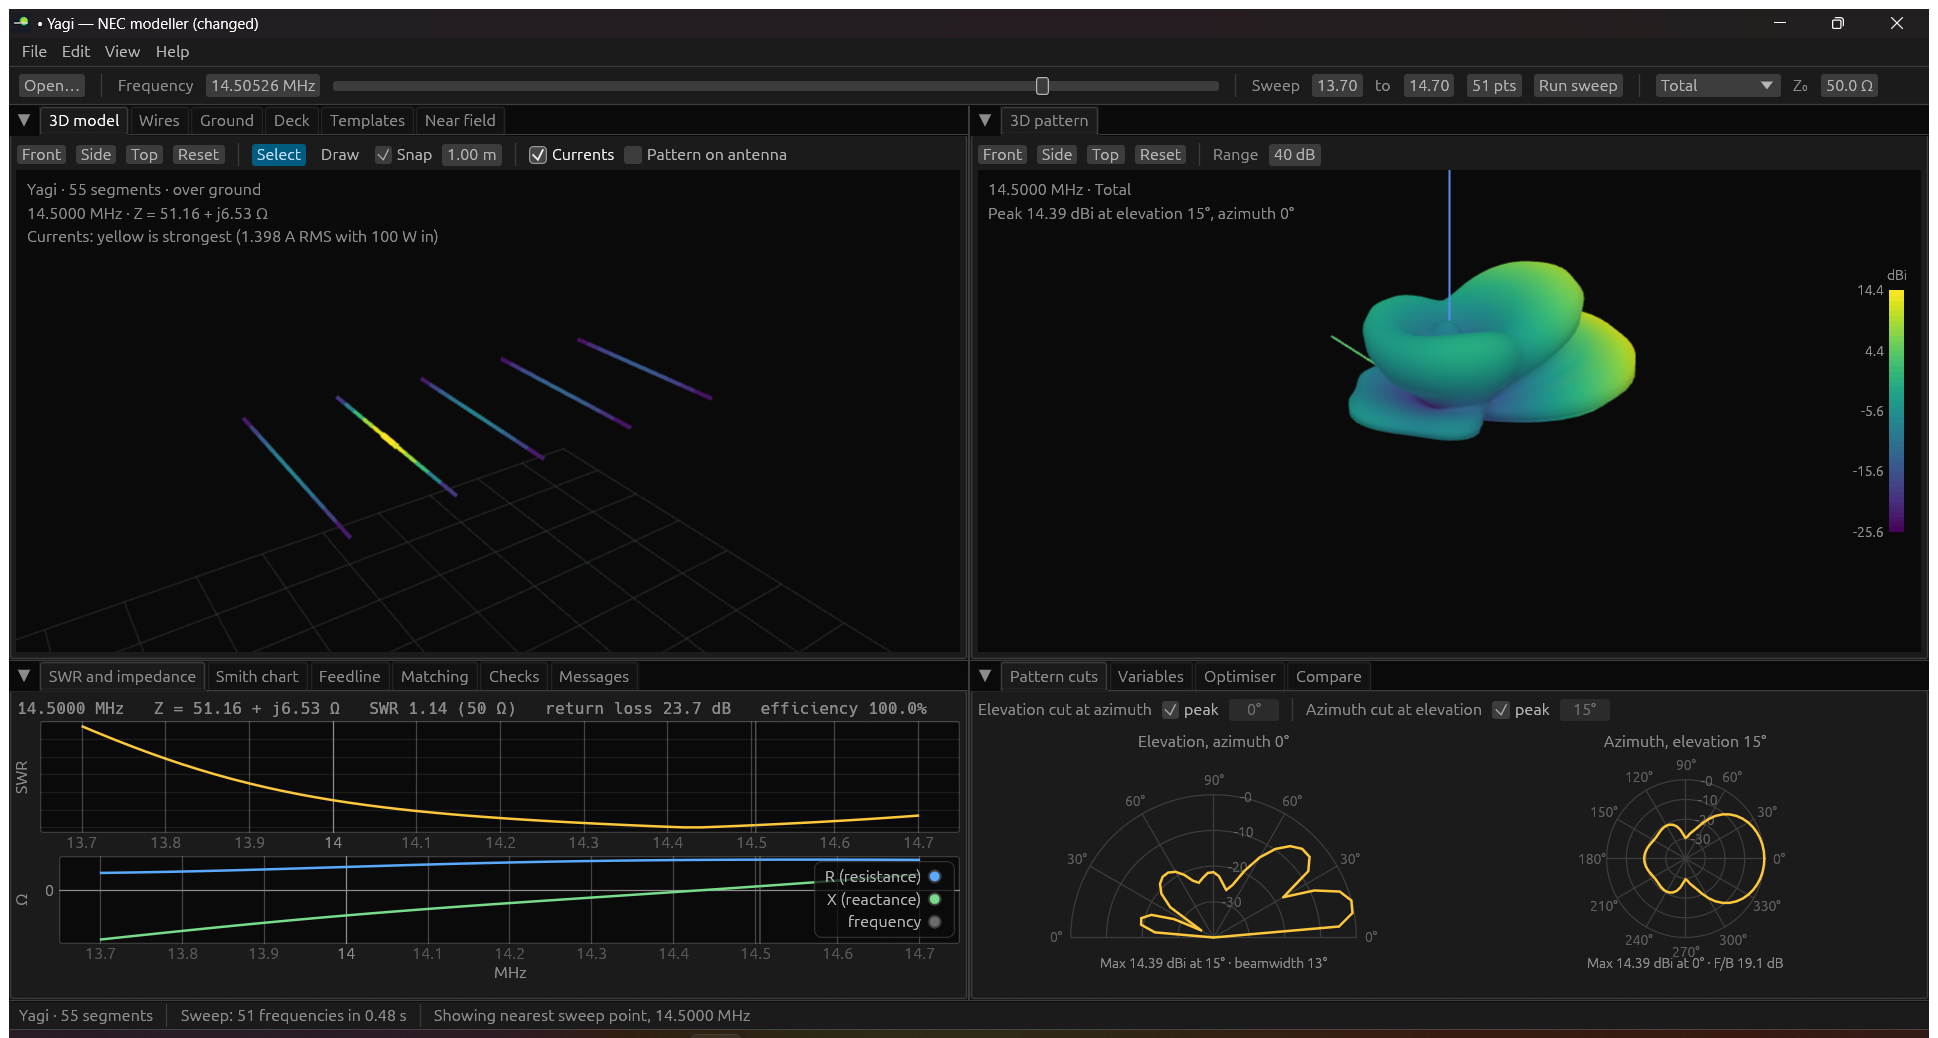
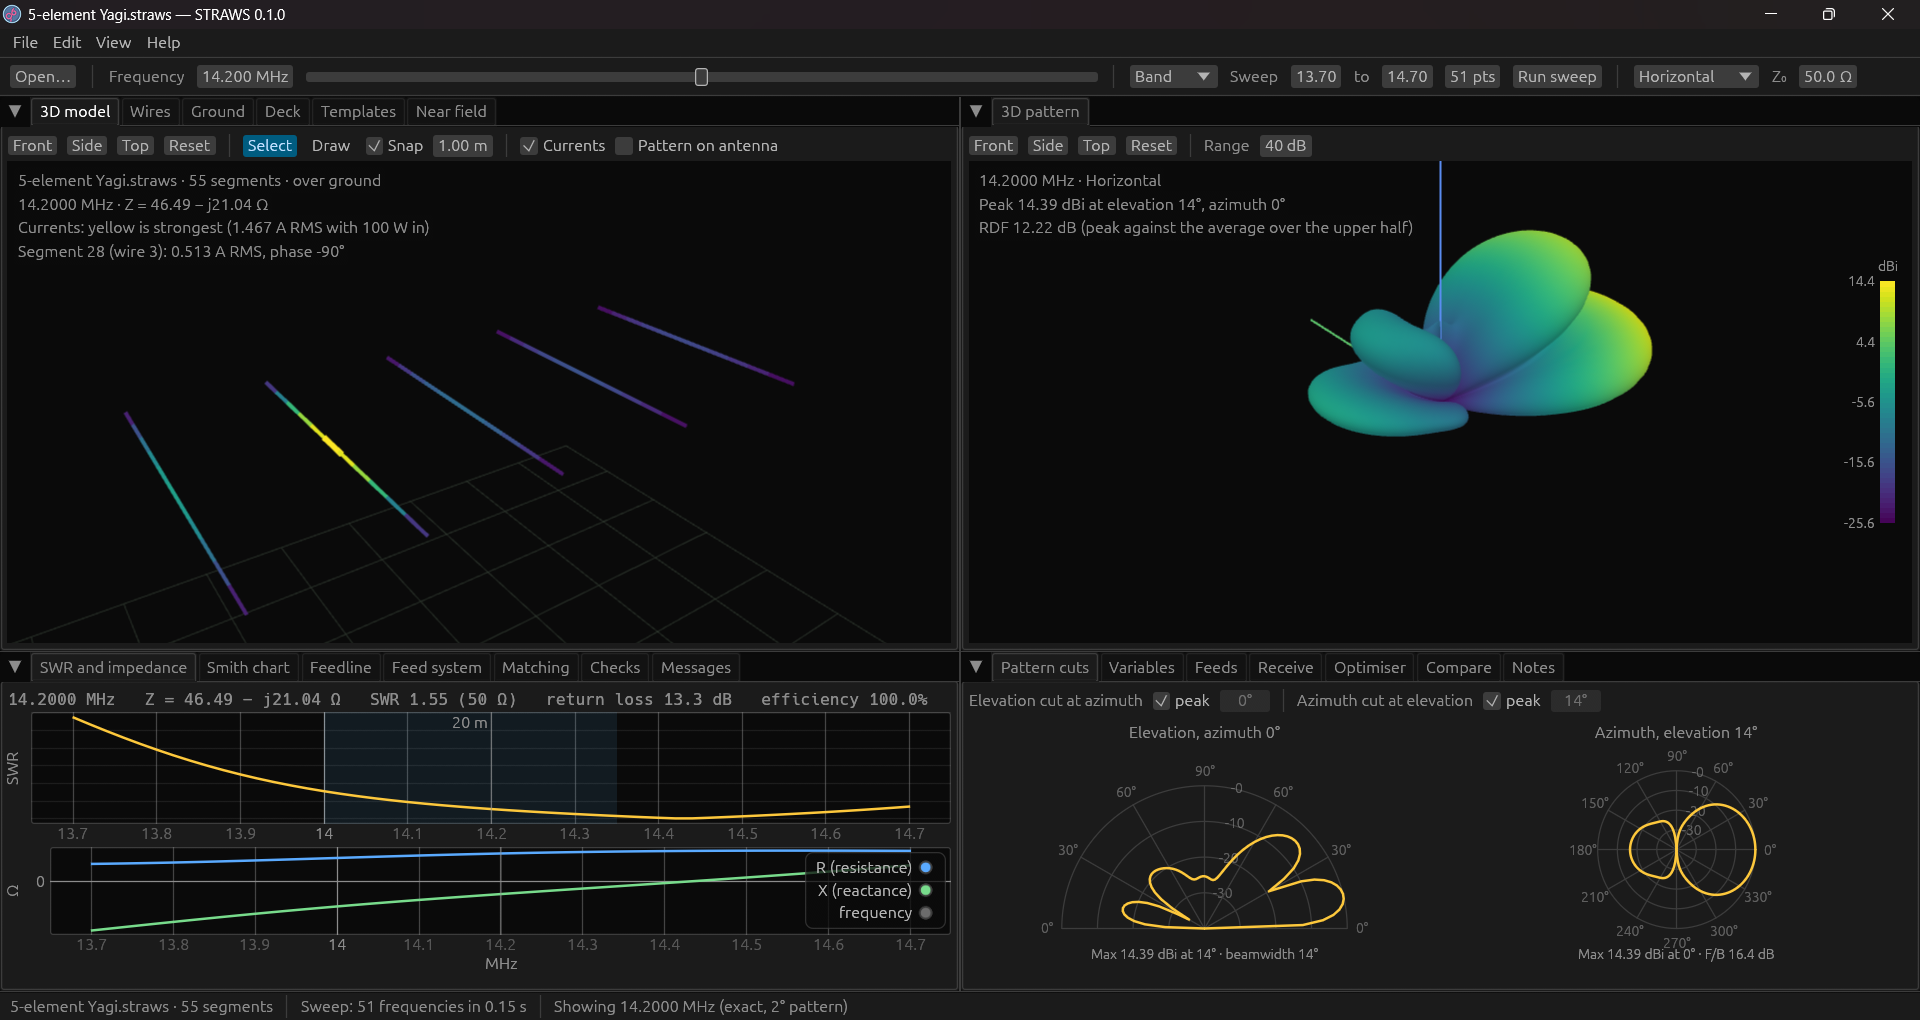
README: four new dark-mode screenshots

diff --git a/README.md b/README.md
@@ -16,7 +16,7 @@
   <a href="CONTRIBUTING.md">Contributing</a>
 </p>
 
-![A 5-element Yagi from the templates: the model coloured by current, its 3D pattern, SWR and impedance across the band, and the elevation and azimuth cuts](docs/screenshots/overview.png)
+![STRAWS in dark mode: a 5-element Yagi over real ground with the current on each element coloured, its 3D radiation pattern, SWR and impedance across the 20 m band, and the elevation and azimuth pattern cuts](docs/screenshots/overview.png)
 
 ## Download
 
@@ -86,10 +86,19 @@ with a paid certificate; the code is all here to read and build yourself.
 - Export CSV, Touchstone, DXF and STL, SVG and PNG images, a report and a
   build sheet with the cut list.
 
-| | |
-|---|---|
-| ![The wire table, Smith chart and variable sliders](docs/screenshots/editing.png) | ![The near-field map, feedline losses and the optimiser](docs/screenshots/tools.png) |
-| Every dimension is a variable: formulas in the wire table, a slider for each, and the Smith chart following as you drag. | The near field at head height with an RF exposure guide, what the radio sees through 30 m of RG-213, and the optimiser. |
+## Screenshots
+
+![A four-square array of verticals: each feed labelled with its current and phase in the 3D view, the pattern beaming one way, and the Feeds view with an amplitude and phase slider for every element](docs/screenshots/arrays.png)
+*Phased arrays: set each element's amplitude and phase with sliders and watch
+the beam steer. The 3D view labels every feed.*
+
+![A double biquad in front of a curved mesh reflector at 1.2 GHz, with its radiation pattern drawn over the antenna, matched to 200 ohms, and its pattern cuts](docs/screenshots/dish.png)
+*Generators and 3D: a double biquad at the focus of a curved mesh reflector,
+its 15.7 dBi beam drawn over the antenna.*
+
+![A dipole fitted to a VNA measurement: the measured sweep and the model overlaid on the SWR, impedance and Smith charts, with the optimiser's fit and the feedline view](docs/screenshots/measure.png)
+*Measure and fit: import a NanoVNA sweep, overlay it on the model, and let the
+optimiser find what differs in the real antenna.*
 
 **What it doesn't do:** NEC-2 models wires and simple surface patches, not
 dielectrics or solid structures such as patch antennas and horns.
